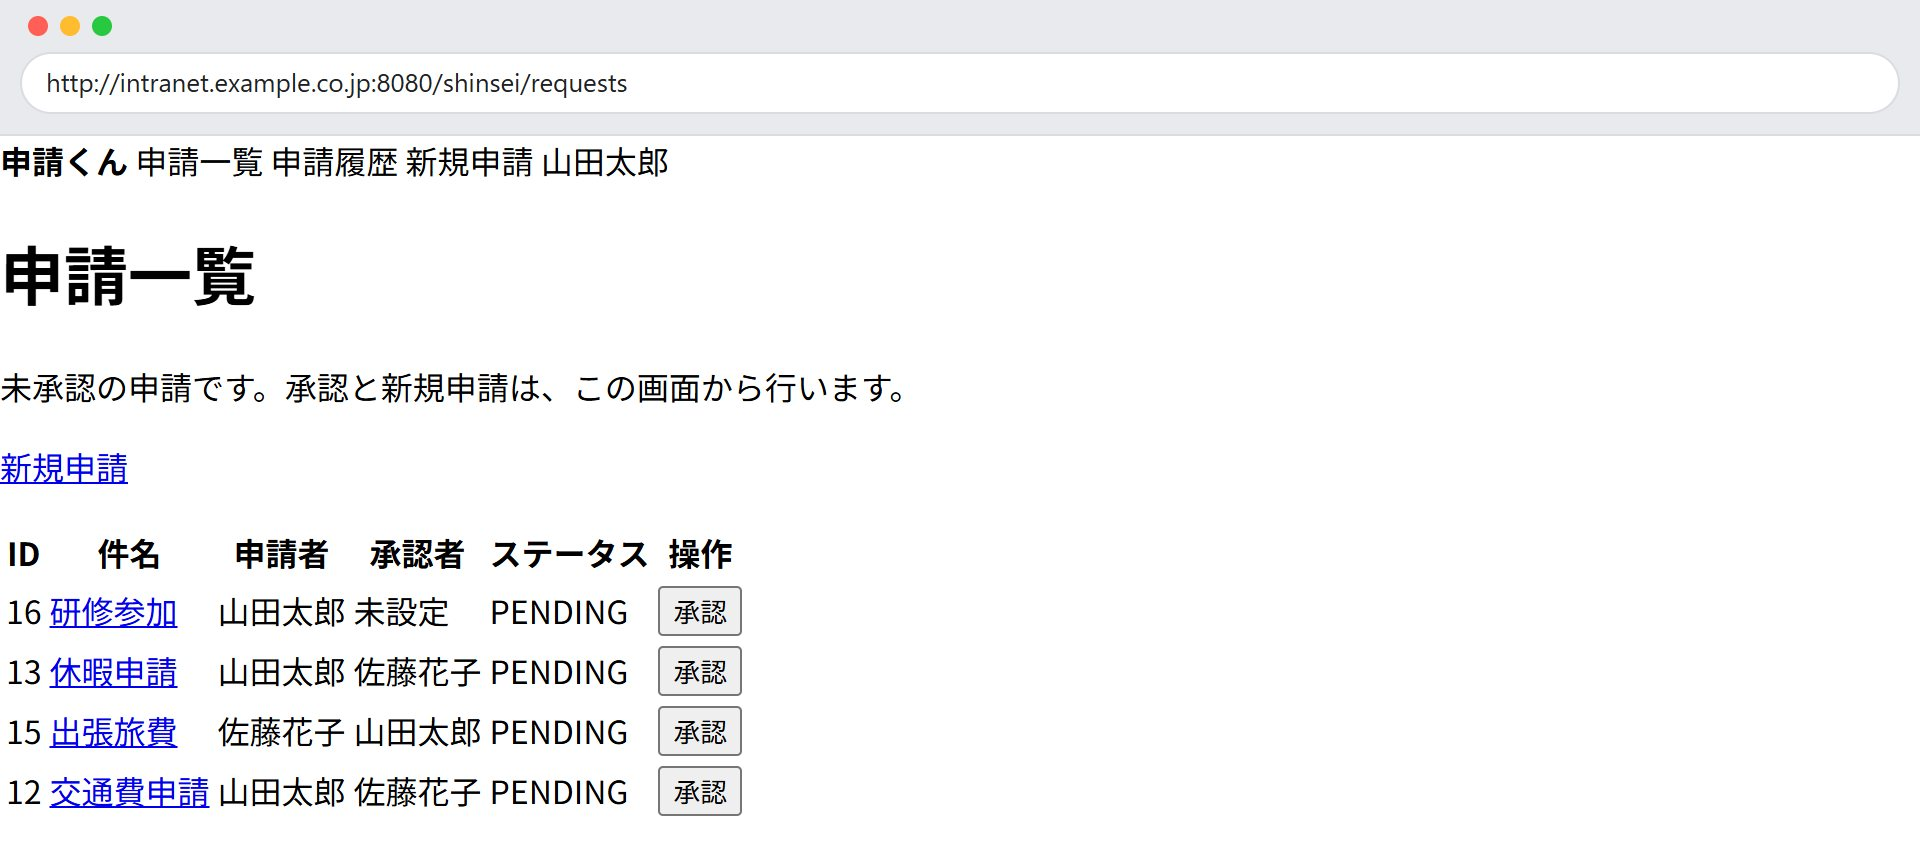
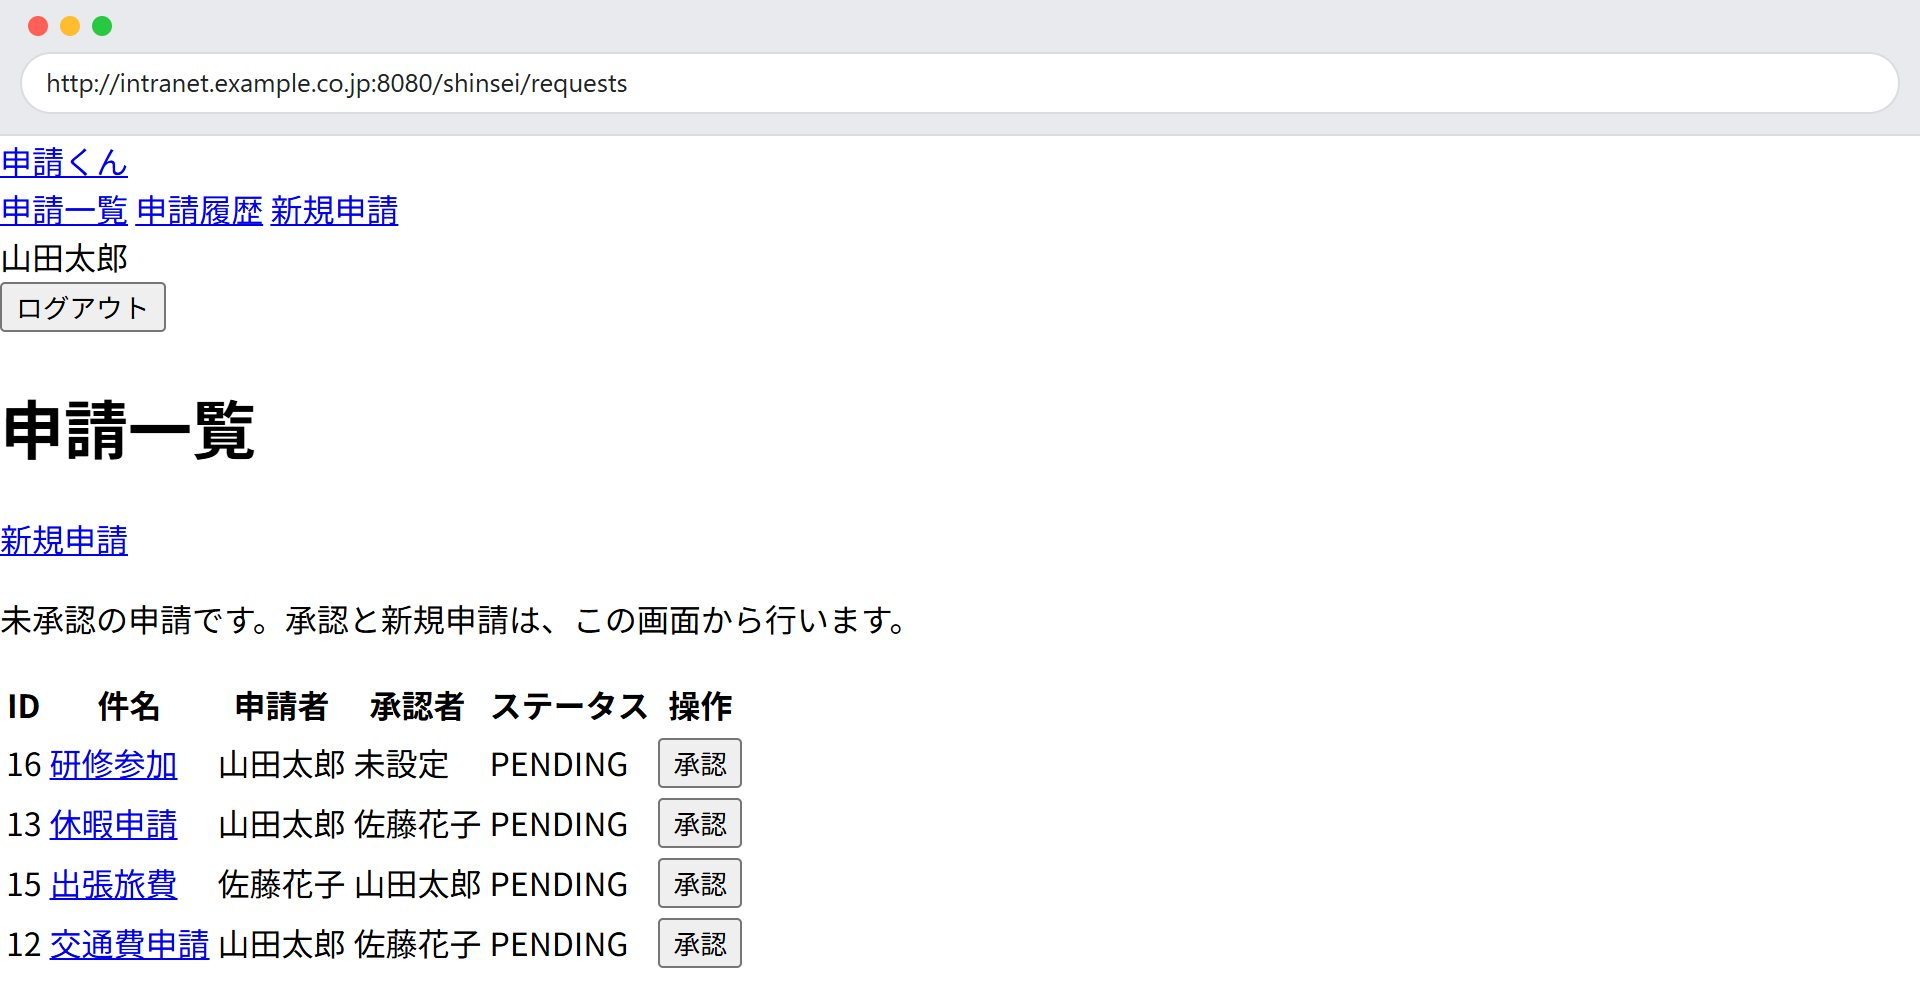
キャプチャと本文・メモの食い違いを直し、モック画面を実アプリのヘッダに揃える
- 承認 POST の Payload に _csrf が 2 行ある理由（テンプレートの hidden と Spring Security の自動挿入）をキャプションに書く
- Cookie のキャプチャの JSESSIONID が例と違う理由（ログインのたびに新しい値になる）をキャプションに書く
- NOTES.md の一覧 HTML 例の説明を 4 行・CSS/JS の読み込みありに更新し、_csrf が 2 つ出ることを追記する
- モックの権限エラー・0 件・CSS 無しの画面に、実アプリと同じ申請履歴リンクとログアウトを足して撮り直す
- CSS 無しのモックを実アプリの HTML 構造にし、CSS 404 の Network キャプチャと見え方を揃える

diff --git a/shinsei-kun/src/main/resources/static/demo/list-unstyled.html b/shinsei-kun/src/main/resources/static/demo/list-unstyled.html
@@ -6,61 +6,74 @@
   <title>申請一覧 | 申請くん</title>
 </head>
 <body>
-  <header>
-    <strong>申請くん</strong>
-    申請一覧
-    申請履歴
-    新規申請
-    山田太郎
+  <header class="app-header">
+    <div class="app-header-inner">
+      <a class="app-logo" href="#">申請くん</a>
+      <nav class="app-nav">
+        <a href="#">申請一覧</a>
+        <a href="#">申請履歴</a>
+        <a href="#">新規申請</a>
+      </nav>
+      <div class="app-user">
+        <span class="app-user-name">山田太郎</span>
+        <form action="#" method="post" onsubmit="return false;">
+          <button type="submit" class="btn-text">ログアウト</button>
+        </form>
+      </div>
+    </div>
   </header>
-  <h1>申請一覧</h1>
-  <p>未承認の申請です。承認と新規申請は、この画面から行います。</p>
-  <p><a href="#">新規申請</a></p>
-  <table>
-    <thead>
-      <tr>
-        <th>ID</th>
-        <th>件名</th>
-        <th>申請者</th>
-        <th>承認者</th>
-        <th>ステータス</th>
-        <th>操作</th>
-      </tr>
-    </thead>
-    <tbody>
-      <tr>
-        <td>16</td>
-        <td><a href="#">研修参加</a></td>
-        <td>山田太郎</td>
-        <td>未設定</td>
-        <td>PENDING</td>
-        <td><button type="button">承認</button></td>
-      </tr>
-      <tr>
-        <td>13</td>
-        <td><a href="#">休暇申請</a></td>
-        <td>山田太郎</td>
-        <td>佐藤花子</td>
-        <td>PENDING</td>
-        <td><button type="button">承認</button></td>
-      </tr>
-      <tr>
-        <td>15</td>
-        <td><a href="#">出張旅費</a></td>
-        <td>佐藤花子</td>
-        <td>山田太郎</td>
-        <td>PENDING</td>
-        <td><button type="button">承認</button></td>
-      </tr>
-      <tr>
-        <td>12</td>
-        <td><a href="#">交通費申請</a></td>
-        <td>山田太郎</td>
-        <td>佐藤花子</td>
-        <td>PENDING</td>
-        <td><button type="button">承認</button></td>
-      </tr>
-    </tbody>
-  </table>
+  <main class="app-main">
+    <div class="page-head">
+      <h1>申請一覧</h1>
+      <a class="btn" href="#">新規申請</a>
+    </div>
+    <p class="lead">未承認の申請です。承認と新規申請は、この画面から行います。</p>
+    <table class="data">
+      <thead>
+        <tr>
+          <th>ID</th>
+          <th>件名</th>
+          <th>申請者</th>
+          <th>承認者</th>
+          <th>ステータス</th>
+          <th>操作</th>
+        </tr>
+      </thead>
+      <tbody>
+        <tr>
+          <td>16</td>
+          <td><a href="#">研修参加</a></td>
+          <td>山田太郎</td>
+          <td>未設定</td>
+          <td>PENDING</td>
+          <td><button type="button" class="btn-approve">承認</button></td>
+        </tr>
+        <tr>
+          <td>13</td>
+          <td><a href="#">休暇申請</a></td>
+          <td>山田太郎</td>
+          <td>佐藤花子</td>
+          <td>PENDING</td>
+          <td><button type="button" class="btn-approve">承認</button></td>
+        </tr>
+        <tr>
+          <td>15</td>
+          <td><a href="#">出張旅費</a></td>
+          <td>佐藤花子</td>
+          <td>山田太郎</td>
+          <td>PENDING</td>
+          <td><button type="button" class="btn-approve">承認</button></td>
+        </tr>
+        <tr>
+          <td>12</td>
+          <td><a href="#">交通費申請</a></td>
+          <td>山田太郎</td>
+          <td>佐藤花子</td>
+          <td>PENDING</td>
+          <td><button type="button" class="btn-approve">承認</button></td>
+        </tr>
+      </tbody>
+    </table>
+  </main>
 </body>
 </html>

diff --git a/src/content/web.ts b/src/content/web.ts
@@ -342,8 +342,8 @@ Content-Type: application/json
           type: "figure",
           kind: "screen",
           src: "/images/screen-network-approve-payload.jpg",
-          alt: "承認 POST の Payload。Form Data に _csrf だけがある",
-          caption: "承認 POST の Payload。Form Data には CSRF トークンだけが載り、申請 ID はここには出てきません。",
+          alt: "承認 POST の Payload。Form Data に同じ値の _csrf が 2 行ある",
+          caption: "承認 POST の Payload。Form Data には CSRF トークン（`_csrf`）だけが載り、申請 ID はここには出てきません。`_csrf` が 2 行あるのは、テンプレートに書いた hidden と、Spring Security が自動で足す hidden の両方が送られているためです。値が同じなので、CSRF の確認は通ります。",
           size: "small",
         },
         {
@@ -457,7 +457,7 @@ Cookie: JSESSIONID=AB12CD34`,
           kind: "screen",
           src: "/images/screen-application-cookies.jpg",
           alt: "開発者ツールの Application タブで見た JSESSIONID の Cookie",
-          caption: "上のログイン後、ブラウザの開発者ツール（Application タブ → Cookies）で見た `JSESSIONID` です。値だけが入っており、ログインユーザの情報はここには含まれません。",
+          caption: "上のログイン後、ブラウザの開発者ツール（Application タブ → Cookies）で見た `JSESSIONID` です。値だけが入っており、ログインユーザの情報はここには含まれません。値が上の例と違うのは、ログインのたびに新しい値になるためです。",
         },
         {
           type: "p",

diff --git a/shinsei-kun/src/main/resources/static/demo/forbidden.html b/shinsei-kun/src/main/resources/static/demo/forbidden.html
@@ -12,10 +12,14 @@
       <a class="app-logo" href="#">申請くん</a>
       <nav class="app-nav">
         <a href="#">申請一覧</a>
+        <a href="#">申請履歴</a>
         <a href="#">新規申請</a>
       </nav>
       <div class="app-user">
         <span class="app-user-name">山田太郎</span>
+        <form action="#" method="post" onsubmit="return false;">
+          <button type="submit" class="btn-text">ログアウト</button>
+        </form>
       </div>
     </div>
   </header>

diff --git a/shinsei-kun/src/main/resources/static/demo/list-empty.html b/shinsei-kun/src/main/resources/static/demo/list-empty.html
@@ -17,6 +17,9 @@
       </nav>
       <div class="app-user">
         <span class="app-user-name">山田太郎</span>
+        <form action="#" method="post" onsubmit="return false;">
+          <button type="submit" class="btn-text">ログアウト</button>
+        </form>
       </div>
     </div>
   </header>

diff --git a/shinsei-kun/NOTES.md b/shinsei-kun/NOTES.md
@@ -10,7 +10,7 @@
 - **一覧の承認は POST しない。** シナリオ「承認ボタンを押しても何も起きない」用です。`list.js` が `id="csrfToken"` の value を読みますが、一覧 HTML にその id はありません。`tokenEl.value` の行で例外になり、POST は飛びません。詳細の承認は `form.js-approve-confirm` と `app.js` の確認ダイアログだけで、POST します。
 - **新規申請の「提出」にも確認ダイアログが出る。** `form.html` の form に `js-submit-confirm` を付け、画面ごとの JS として `static/js/form.js` を読み込みます。`form.js` の submit ハンドラは、`app.js` の `confirmAction` を呼びます。クリックから動く JavaScript を見つけ、そこから別ファイルの関数へ辿る教材用の例です。`app.js` は `<head>` の `defer` 付きなので、`form.js` が実行される時点では `confirmAction` はまだ定義されていません。呼び出しは送信のとき（あとから発生するイベント）なので問題なく動きます。`form.js` のトップレベルから `confirmAction` を呼ぶ形に書き換えてはいけません。
 - **確認ダイアログの文言は `app.js` の `confirmAction` が組み立てる。** 承認は「承認してよいですか？」、新規申請は「提出してよいですか？」です。詳細の承認の見え方はこれまでと変わりません。
-- **パスワードは BCrypt、POST フォームには CSRF 用 hidden がある。** 動かすための簡略はありますが、平文パスワード・CSRF 無効・SQL の文字列連結はしません。
+- **パスワードは BCrypt、POST フォームには CSRF 用 hidden がある。** 動かすための簡略はありますが、平文パスワード・CSRF 無効・SQL の文字列連結はしません。テンプレートに書いた hidden に加え、`th:action` の POST フォームには Spring Security が同じ `_csrf` の hidden を自動で足すので、組み立て後の HTML と送信の Form Data には `_csrf` が 2 つ出ます（`screen-network-approve-payload.jpg`）。教材の「組み立て後の HTML」の抜粋は 1 つだけ載せています。
 - **教材の短い抜粋に無いクラスや処理がある。** 新規申請、`findById` の null チェック、`@Transactional`、ログインユーザ、例外の出口、画面レイアウトなどです。動かすための穴埋めです。
 - **ID 16「研修参加」は、承認者が未設定の教材用データ。** タイトルは業務らしい名前にしてあります。`approver_id=NULL` は意図的な不整合です。山田で詳細を開いて承認すると、`RequestService.approve` の `request.getApproverId().equals(...)` で NullPointerException が発生します。原因を追うシナリオのため、この行を null 安全にはしません。
 - **ID 11 は、承認済み申請の業務メッセージ用データ。** 一覧には出ません。詳細ではステータスにかかわらず承認フォームを表示します。送信すると Controller の PENDING 判定で「この申請は承認できません」を flash 表示します。通常の業務画面より操作範囲を広げた教材用仕様です。
@@ -23,7 +23,7 @@
 
 ## 教材の抜粋との差
 
-- **初期データは 5 件。** 一覧は未承認の 4 件です。承認済みの備品購入は申請履歴に出ます。教材の一覧 HTML 例は「研修参加」「休暇申請」の 2 行で、一覧スクリーンショット（`screen-list.jpg`）の先頭 2 件（ID 16、ID 13）に揃えています。
+- **初期データは 5 件。** 一覧は未承認の 4 件です。承認済みの備品購入は申請履歴に出ます。「HTTP のリクエストとレスポンス」の一覧 HTML 例（ラボの `httpSample` と本文）は、一覧スクリーンショット（`screen-list.jpg`）と同じ 4 行です。`<head>` の `app.css`・`app.js` と、表のあとの `list.js` の読み込みも載せています（Network タブの 4 行と対応）。列は件名とステータスだけに省いています。テンプレートの章の「組み立て後の HTML」と Web API の JSON は、2 件の抜粋です。
 - **申請履歴の検索が遅いシナリオは、検証用に履歴が多い想定。** ローカルの初期データでは遅くなりません。`schema.sql` に履歴検索向けの `INDEX` は足しません。原因を残すためです。`t_request` には外部キー制約も付けていません。InnoDB は外部キー制約のカラムにインデックスを自動で作るので、付けると `applicant_id` と `approver_id` にインデックスができ、教材の `EXPLAIN`（`possible_keys` が `NULL`、`type` が `ALL`）と合わなくなるためです。外部キー制約を戻してはいけません。`possible_keys` が `NULL` は、インデックスが存在しない、ではなく、この SQL で使える候補が無いとオプティマイザが見ている、と読みます。`OR` と `ORDER BY` が重なるため、単純な `INDEX` 追加では足りないことがあります。以前の `schema.sql` で作った DB ボリュームには外部キー制約とそのインデックスが残るので、作り直すときは `docker compose down -v` を使います（`README.md` の「起動（Docker）」にも同じ注意があります）。
 - **二重メールのシナリオは、検証用環境で SMTP 送信に約3秒かかる想定。** `approve` は `@Transactional` の中でメールを送るので、送信が終わるまで確定しません。その間に届いた2回目の承認が、確定前の `PENDING` を読みます。申請くんの `LoggingJavaMailSender` はログに出すだけですぐ終わるので、ローカルでは1回目がすぐ確定し、2回目は Controller の `PENDING` 判定で止まります。人が二度押しする速さでは、ローカルでは再現しにくいです。
 - **DB に接続できないシナリオのログは、実物を撮ったもの。** 申請くんで一覧を一度開いたあと、アプリのコンテナのネットワークで `iptables -A OUTPUT -p tcp --dport 3306 -j DROP` を実行し、もう一度一覧を開いて出たログです。時刻は教材の 04:12:03.512 起点に置き換えています。生のログでは、リクエストの行から ERROR まで 28.9 秒でしたが、HikariCP は 30052ms 待ったと出していました。logback の時刻（実時刻）と HikariCP の待ち時間（`System.nanoTime`）が、Docker Desktop（WSL2）のコンテナでずれたためと推定しています。教材では、WARN と ERROR の時刻をこの比率で伸ばし、ERROR が約 30 秒後になるようにしています。HikariCP の既定の待ち時間（30 秒）で `SQLTransientConnectionException` になり、root cause は `ConnectionIsClosedException` でした。root cause は、そのとき裏で失敗した接続によって変わることがあります。`docker-compose.yml` は変えず、使い捨てのコンテナを `--net container:shinsei-kun-app-1 --cap-add NET_ADMIN` で起動して iptables を実行しました。
